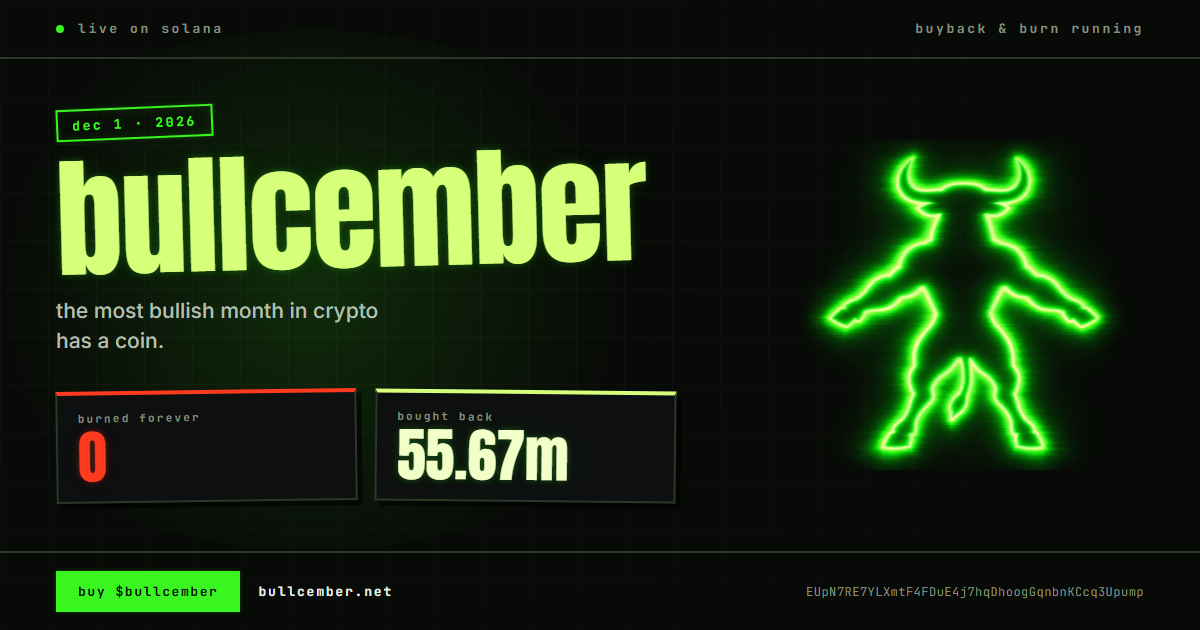
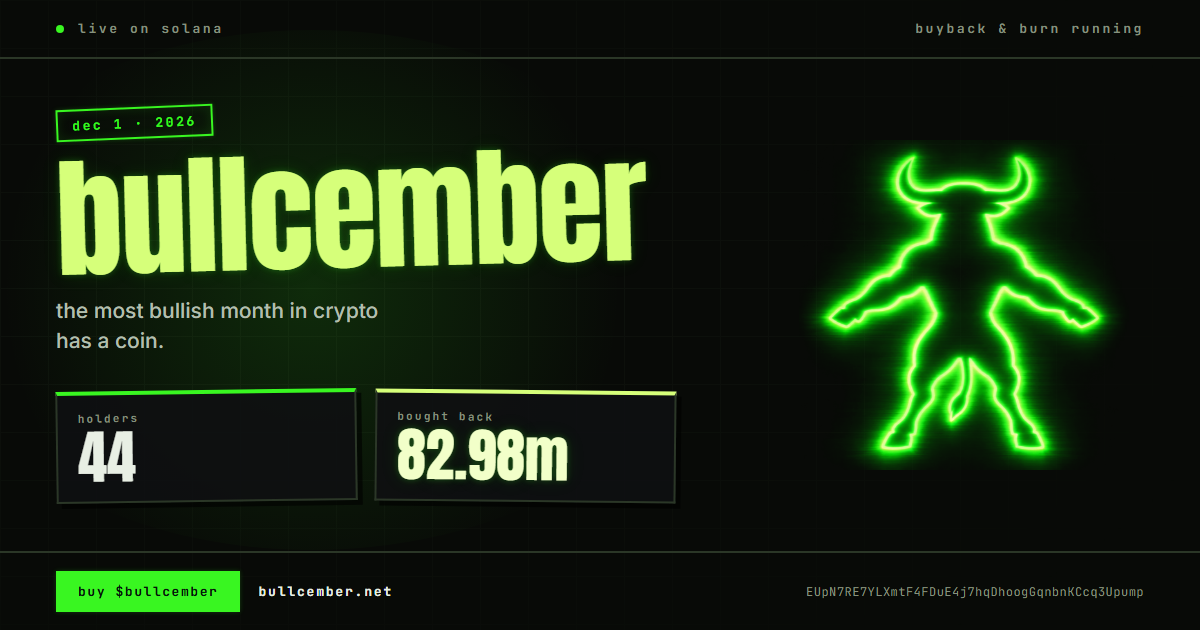
Refresh the social preview card
Bought Back on the card was stale (55.67M, now 82.98M) and the burn tile read a
red 0 until the first burn; it shows the holder count until then. Adds
og:site_name, image type/alt text and twitter:creator, and a trailing slash on
og:url to match the canonical URL.

Changed region(s): [[0.0617, 0.6635, 0.1542, 0.7841], [0.0308, 0.6032, 0.3083, 0.6333], [0.3392, 0.6937, 0.4625, 0.754]]

diff --git a/index.html b/index.html
@@ -14,18 +14,23 @@
   <link rel="manifest" href="site.webmanifest" />
   <!-- Open Graph -->
   <meta property="og:type" content="website" />
-  <meta property="og:url" content="https://bullcember.net" />
+  <meta property="og:site_name" content="BULLCEMBER" />
+  <meta property="og:url" content="https://bullcember.net/" />
   <meta property="og:title" content="$BULLCEMBER: The Bullish December, Now on Solana" />
   <meta property="og:description" content="$BULLCEMBER is live on Solana. The most bullish month in crypto has a coin. Zero taxes, no VCs, pure community. December 1, 2026." />
-  <meta property="og:image" content="https://bullcember.net/og-image.png?v=e6bb16f8" />
+  <meta property="og:image" content="https://bullcember.net/og-image.png?v=683c888e" />
   <meta property="og:image:width" content="1200" />
   <meta property="og:image:height" content="630" />
+  <meta property="og:image:type" content="image/png" />
+  <meta property="og:image:alt" content="$BULLCEMBER neon bull logo with live buyback stats and the contract address" />
   <!-- Twitter Card -->
   <meta name="twitter:card" content="summary_large_image" />
   <meta name="twitter:site" content="@bullcembersol" />
+  <meta name="twitter:creator" content="@bullcembersol" />
   <meta name="twitter:title" content="$BULLCEMBER: The Bullish December, Now on Solana" />
   <meta name="twitter:description" content="$BULLCEMBER is live on Solana. The most bullish month in crypto has a coin. Zero taxes, no VCs, pure community. December 1, 2026." />
-  <meta name="twitter:image" content="https://bullcember.net/og-image.png?v=e6bb16f8" />
+  <meta name="twitter:image" content="https://bullcember.net/og-image.png?v=683c888e" />
+  <meta name="twitter:image:alt" content="$BULLCEMBER neon bull logo with live buyback stats and the contract address" />
   <link rel="stylesheet" href="style.css" />
   <link rel="preconnect" href="https://fonts.googleapis.com" />
   <link rel="preconnect" href="https://fonts.gstatic.com" crossorigin />
